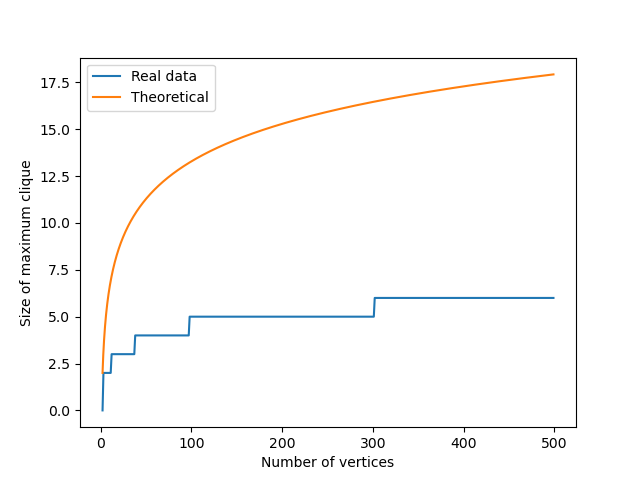
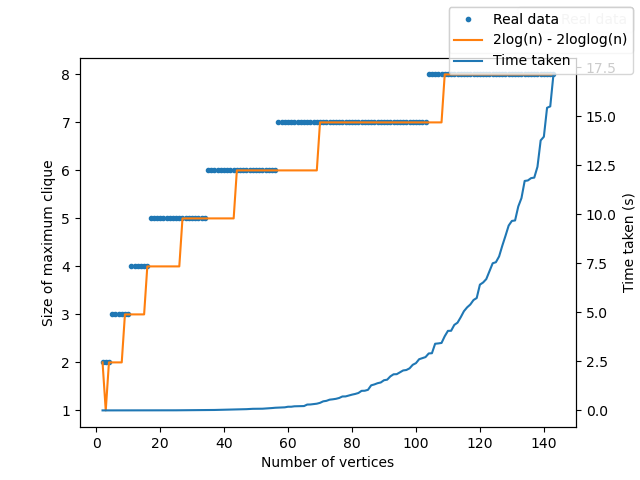
Log time taken, fix theoretical approximation

diff --git a/plot.py b/plot.py
@@ -1,26 +1,40 @@
-import math
+from math import log2
 import numpy as np
 import matplotlib.pyplot as plt
 
+fig, clique_axis = plt.subplots(1)
+time_axis = clique_axis.twinx()
+
 data = np.genfromtxt(fname='out.tsv', delimiter='\t')
 data = np.sort(data, axis=0)
-x, y = zip(*data)
-plt.plot(x, y, label='Real data')
-plt.legend()
+x, y_real, time = zip(*data)
 
 
-def k_theoretical(n: float):
-    return 2 * math.log2(n)
+def plot_real_data():
+    clique_axis.plot(x, y_real, '.', label='Real data')
+    fig.legend()
 
 
-k_v = np.vectorize(k_theoretical)
-x_prime = np.linspace(2, max(x), 10000)
-y_prime = k_v(x_prime)
-plt.plot(x_prime, y_prime, label='Theoretical')
-plt.legend()
+def plot_theoretical():
+    k_v = np.vectorize(lambda x: int(
+        2 * log2(x) - 2*log2(log2(x))))
+    y_theory = k_v(x)
+    clique_axis.plot(x, y_theory, label='2log(n) - 2loglog(n)')
+    fig.legend()
 
-plt.xlabel('Number of vertices')
-plt.ylabel('Size of maximum clique')
+
+def plot_time():
+    time_axis.plot(x, time, label='Time taken')
+    fig.legend()
+
+
+plot_real_data()
+plot_theoretical()
+plot_time()
+
+clique_axis.set_xlabel('Number of vertices')
+clique_axis.set_ylabel('Size of maximum clique')
+time_axis.set_ylabel('Time taken (s)')
 
 plt.savefig('plot.png')
 plt.show()

diff --git a/src/main.cpp b/src/main.cpp
@@ -3,7 +3,10 @@
 #include <boost/graph/erdos_renyi_generator.hpp>
 #include <boost/graph/undirected_graph.hpp>
 #include <boost/random/linear_congruential.hpp>
+#include <chrono>
 #include <iostream>
+
+using namespace std::chrono;
 
 // https://www.boost.org/doc/libs/1_83_0/libs/graph/doc/erdos_renyi_generator.html
 // ^ Example constructing ER graph
@@ -16,11 +19,15 @@ int main(int argc, char** argv) {
     boost::minstd_rand gen;
 
 #pragma omp parallel for schedule(dynamic, 1)
-    for (int n = 2; n < 500; ++n) {
+    for (int n = 2; n < 1000; ++n) {
+        auto start = system_clock::now();
         Graph G(ERGen(gen, n, p), ERGen(), n);
         int omega = boost::bron_kerbosch_clique_number(G);
+        auto duration =
+            duration_cast<milliseconds>(system_clock::now() - start).count() *
+            0.001;
 #pragma omp critical
-        { std::cout << n << '\t' << omega << std::endl; }
+        { std::cout << n << '\t' << omega << '\t' << duration << std::endl; }
     }
 
     return 0;
